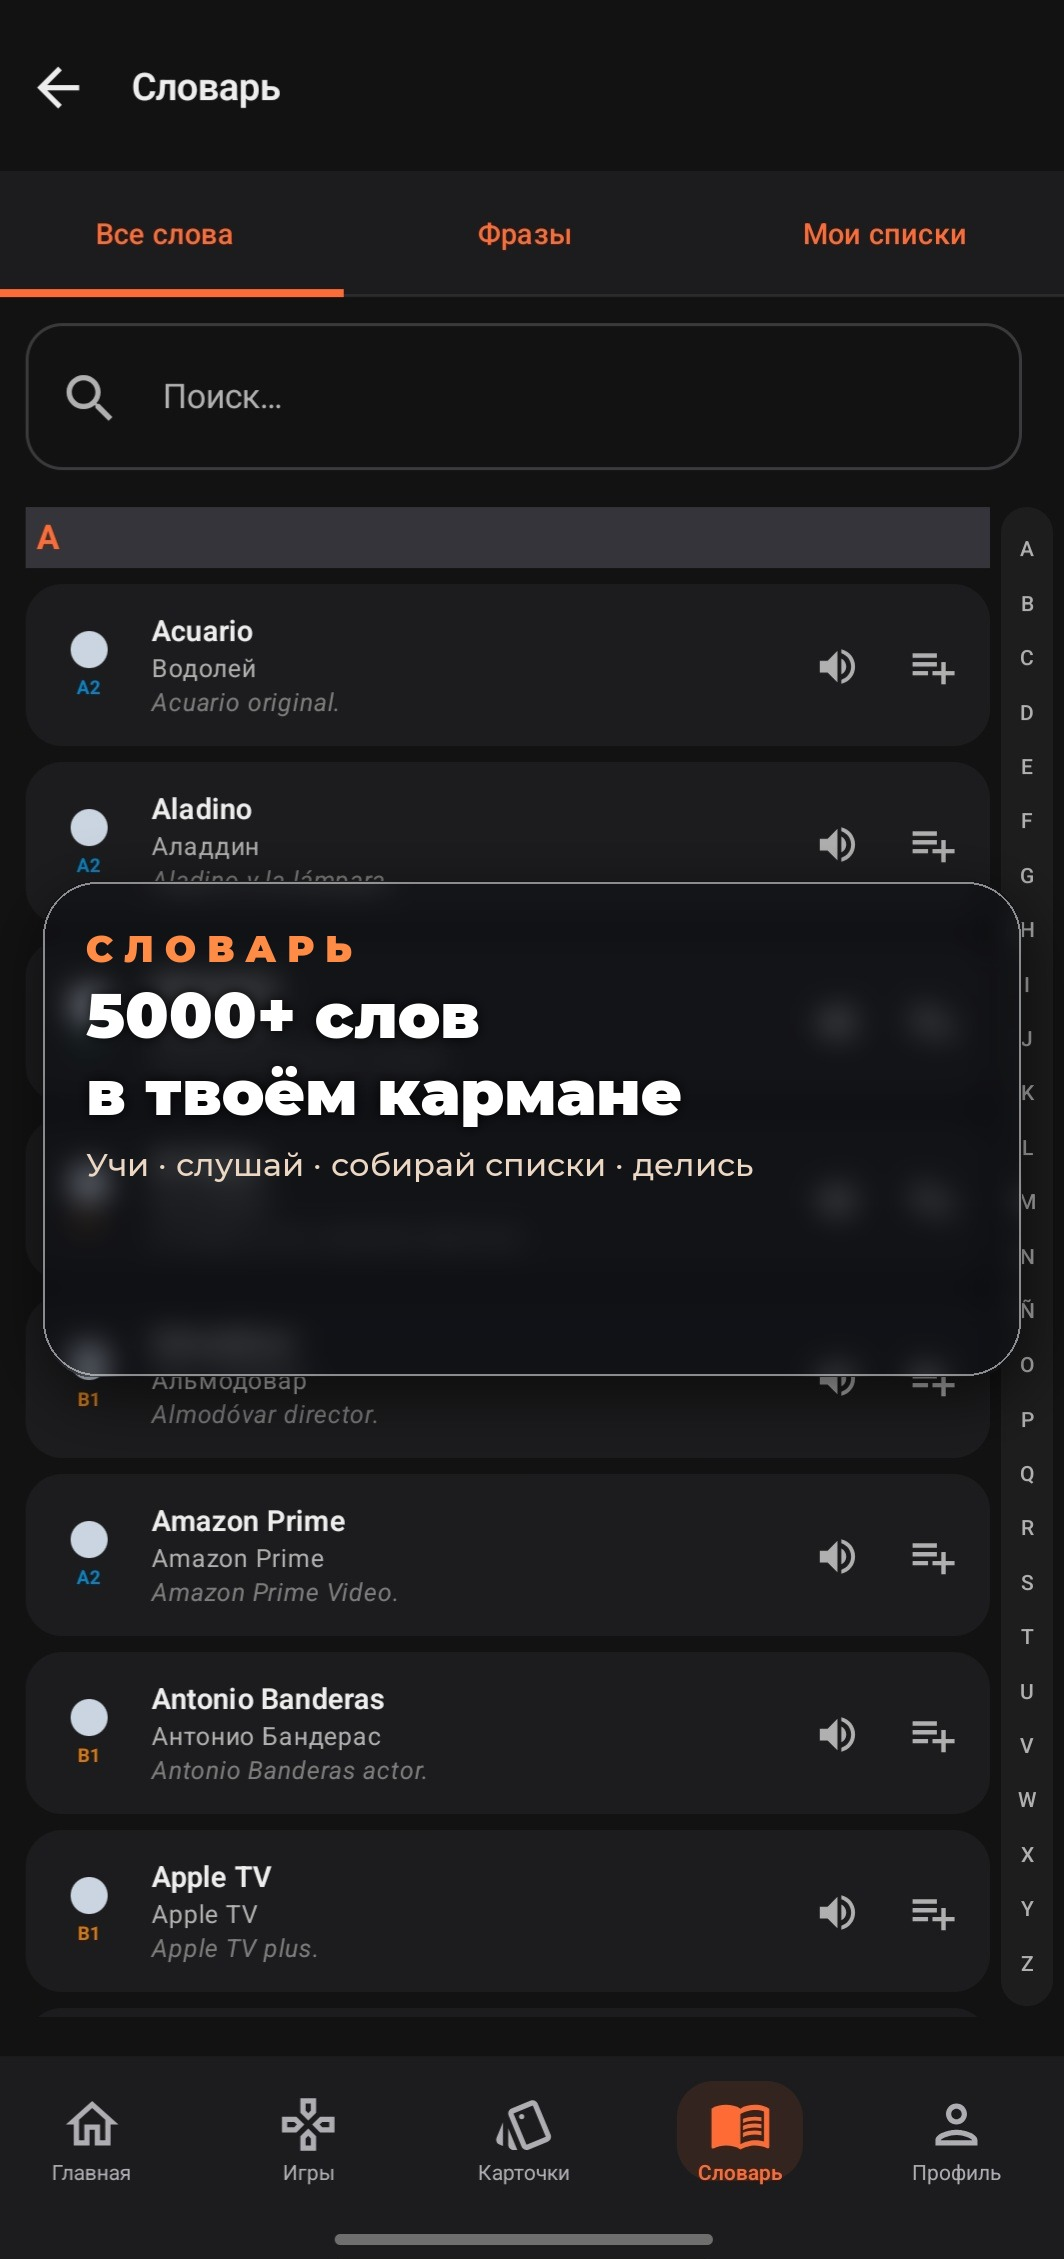
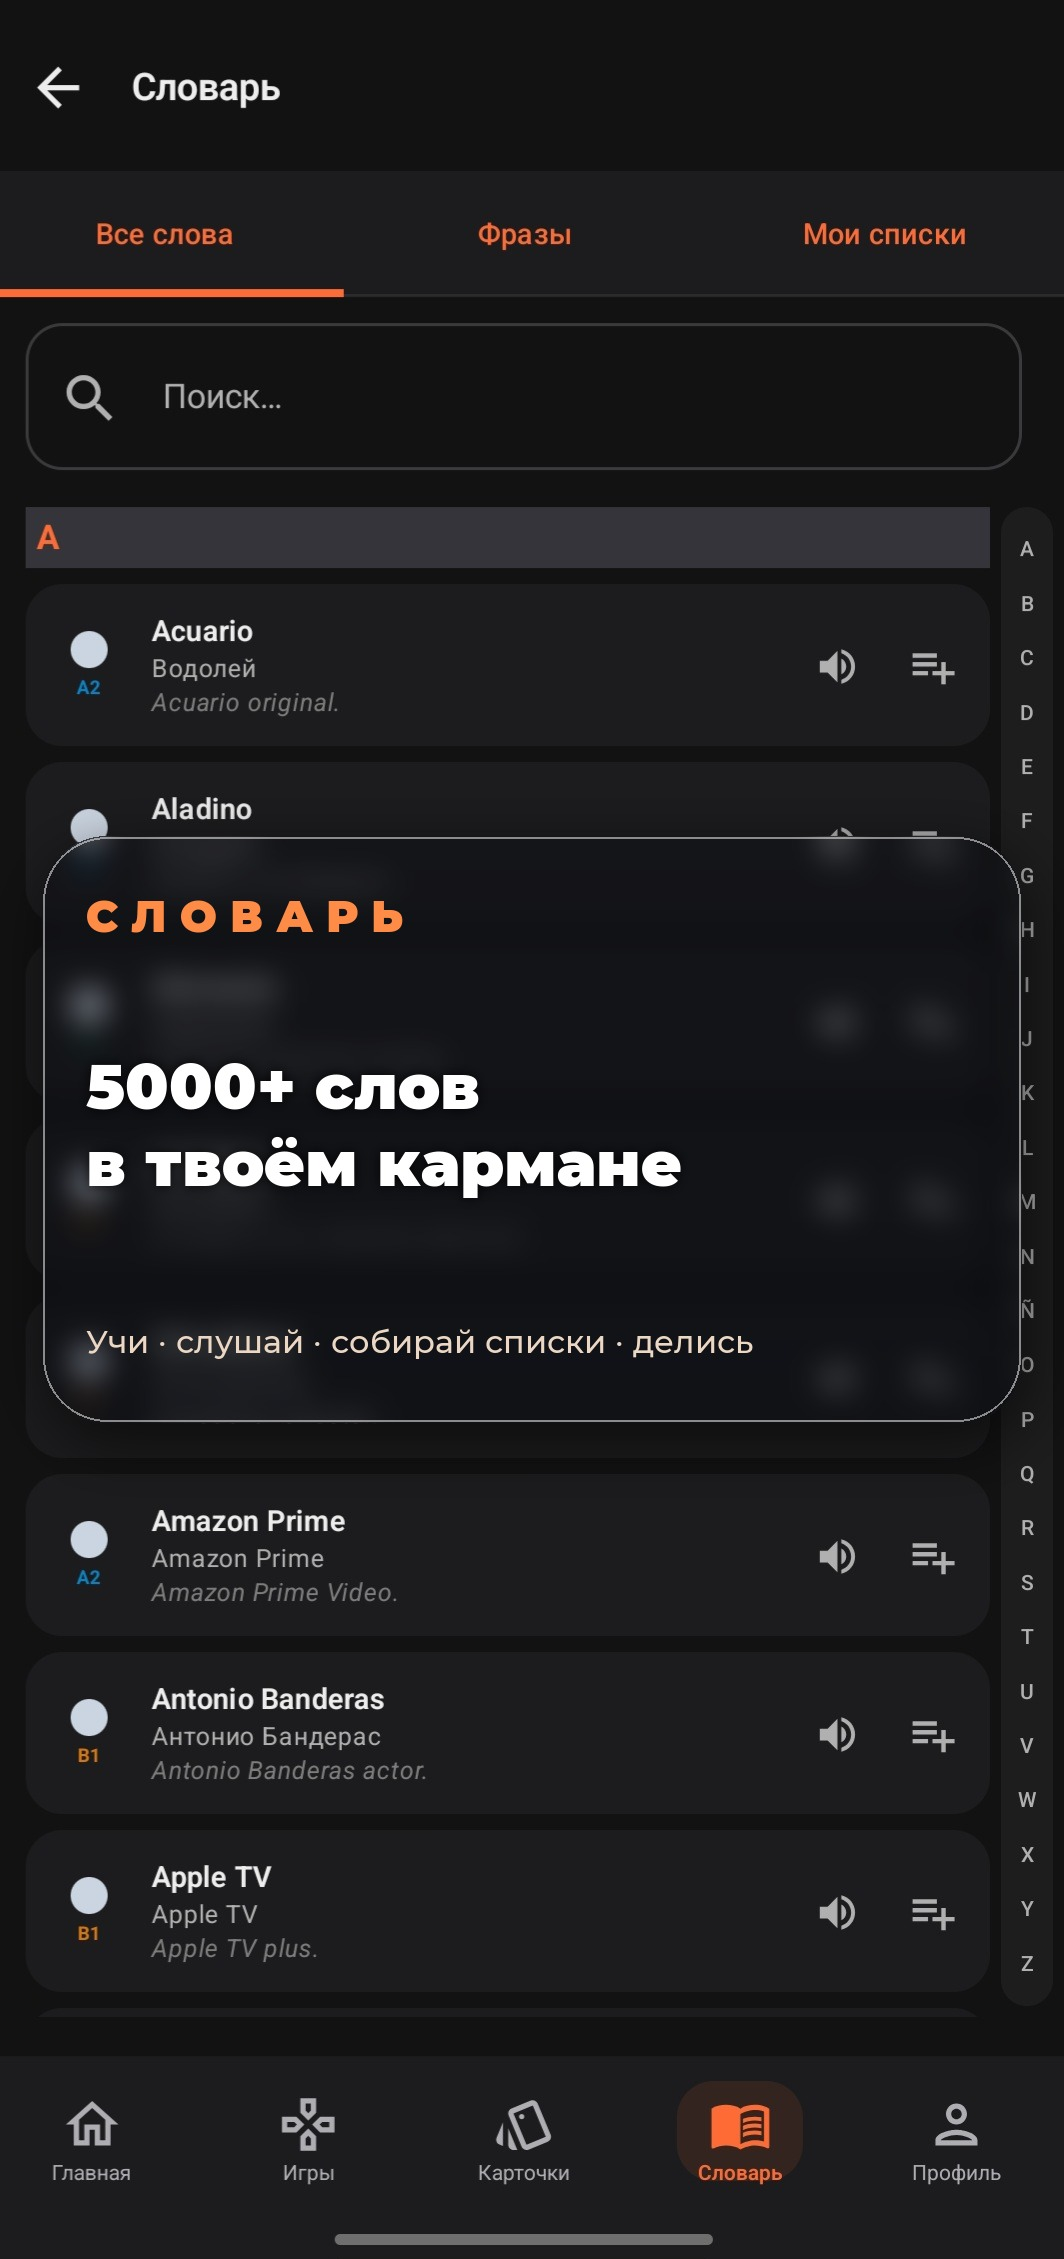
Play assets fix: actually use the new layout for the foreground text
The previous "vertical distribution" commit only updated the glow
shadow positions. The white headline draw loop still referenced
block_y/gap_eb_head from the old layout, so the visible text was
glued together at the top while the (invisible) shadow was correctly
distributed. Pointed the foreground loop at head_y_top too. Now
eyebrow / headline / subtitle render where they should: top, middle,
bottom — with real space between.

Also synced the pre-pass _banner_h with the function (0.22 → 0.26)
so font sizing matches the actual render height.

diff --git a/docs/play_assets/_make_screenshot_banners.py b/docs/play_assets/_make_screenshot_banners.py
@@ -193,7 +193,7 @@ def add_glass_banner(img: Image.Image, eyebrow: str,
     glow_layer = glow_layer.filter(ImageFilter.GaussianBlur(6))
     out = Image.alpha_composite(out, glow_layer)
     draw = ImageDraw.Draw(out)
-    y_cursor = block_y + eb_h + gap_eb_head
+    y_cursor = head_y_top
     for ln, bbx in zip(head_lines, head_metrics):
         draw.text((text_x, y_cursor - bbx[1]), ln,
                   font=f_head, fill=(255, 255, 255))
@@ -213,7 +213,7 @@ _margin   = int(_W * 0.04)
 _banner_w = _W - _margin * 2
 _pad_x    = int(_banner_w * 0.045)
 _inner_w  = _banner_w - _pad_x * 2
-_banner_h = int(_H * 0.22)
+_banner_h = int(_H * 0.26)
 
 HEAD_SIZE, SUB_SIZE = pick_uniform_sizes(
     CAPTIONS, _inner_w,
